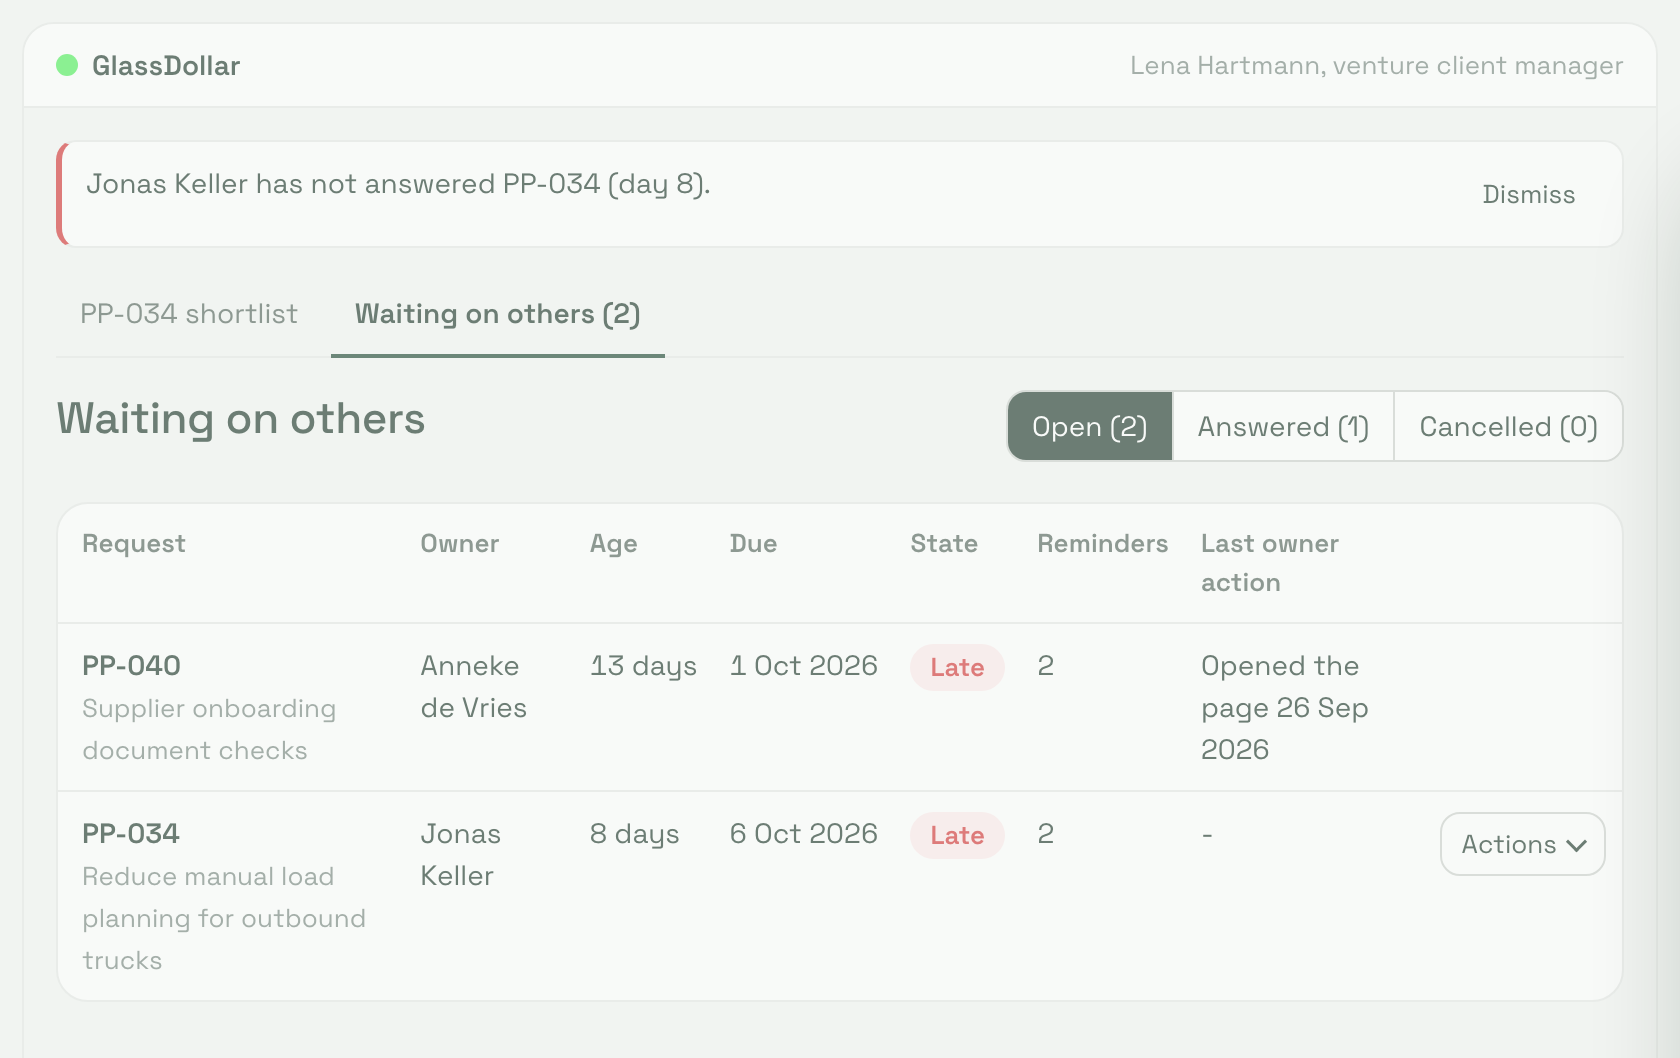
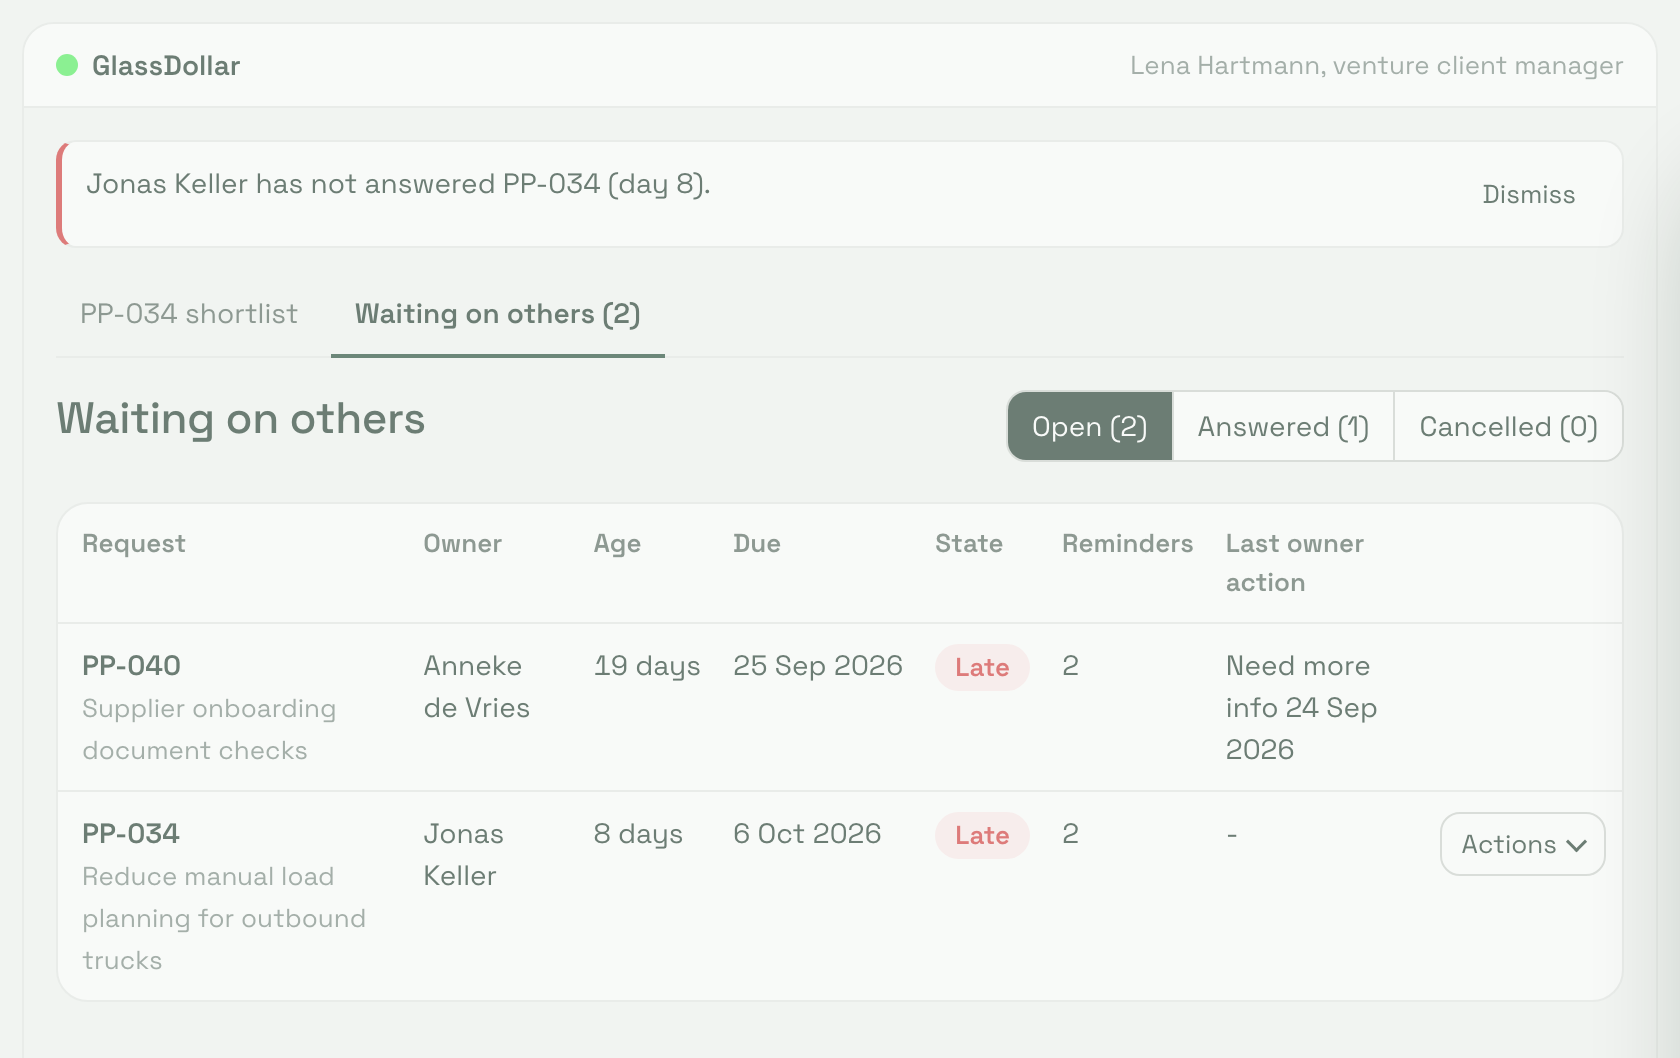
Align PP-040 with the sample data: sent 18 Sep, due 25 Sep, partial answer 24 Sep (#20)

diff --git a/index.html b/index.html
@@ -484,10 +484,10 @@ function answer(items, noneFit, noneFitText, via, note){
 
 /* Other requests in the list, relative to the clock */
 function otherRows(){
-  const age40 = S.day + 5;
+  const age40 = S.day + 11;
   return [
-    { id:'PP-040', title:'Supplier onboarding document checks', owner:'Anneke de Vries', sent:fmt(-5), age:age40, due:fmt(2),
-      state: age40 >= LATE_DAY ? 'Late' : 'Waiting', reminders: age40 >= 7 ? 2 : age40 >= 3 ? 1 : 0, last:'Opened the page 26 Sep 2026', fixed:true },
+    { id:'PP-040', title:'Supplier onboarding document checks', owner:'Anneke de Vries', sent:fmt(-11), age:age40, due:fmt(-4),
+      state: age40 >= LATE_DAY ? 'Late' : 'Waiting', reminders: age40 >= 7 ? 2 : age40 >= 3 ? 1 : 0, last:'Need more info 24 Sep 2026', fixed:true },
     { id:'PP-028', title:'Waste-heat recovery at Kiel foundry', owner:'Henrik Vos', sent:'20 Apr 2026', age:8, due:'27 Apr 2026',
       state:'Answered', reminders:0, last:'Answered 28 Apr 2026', fixed:true }
   ];
